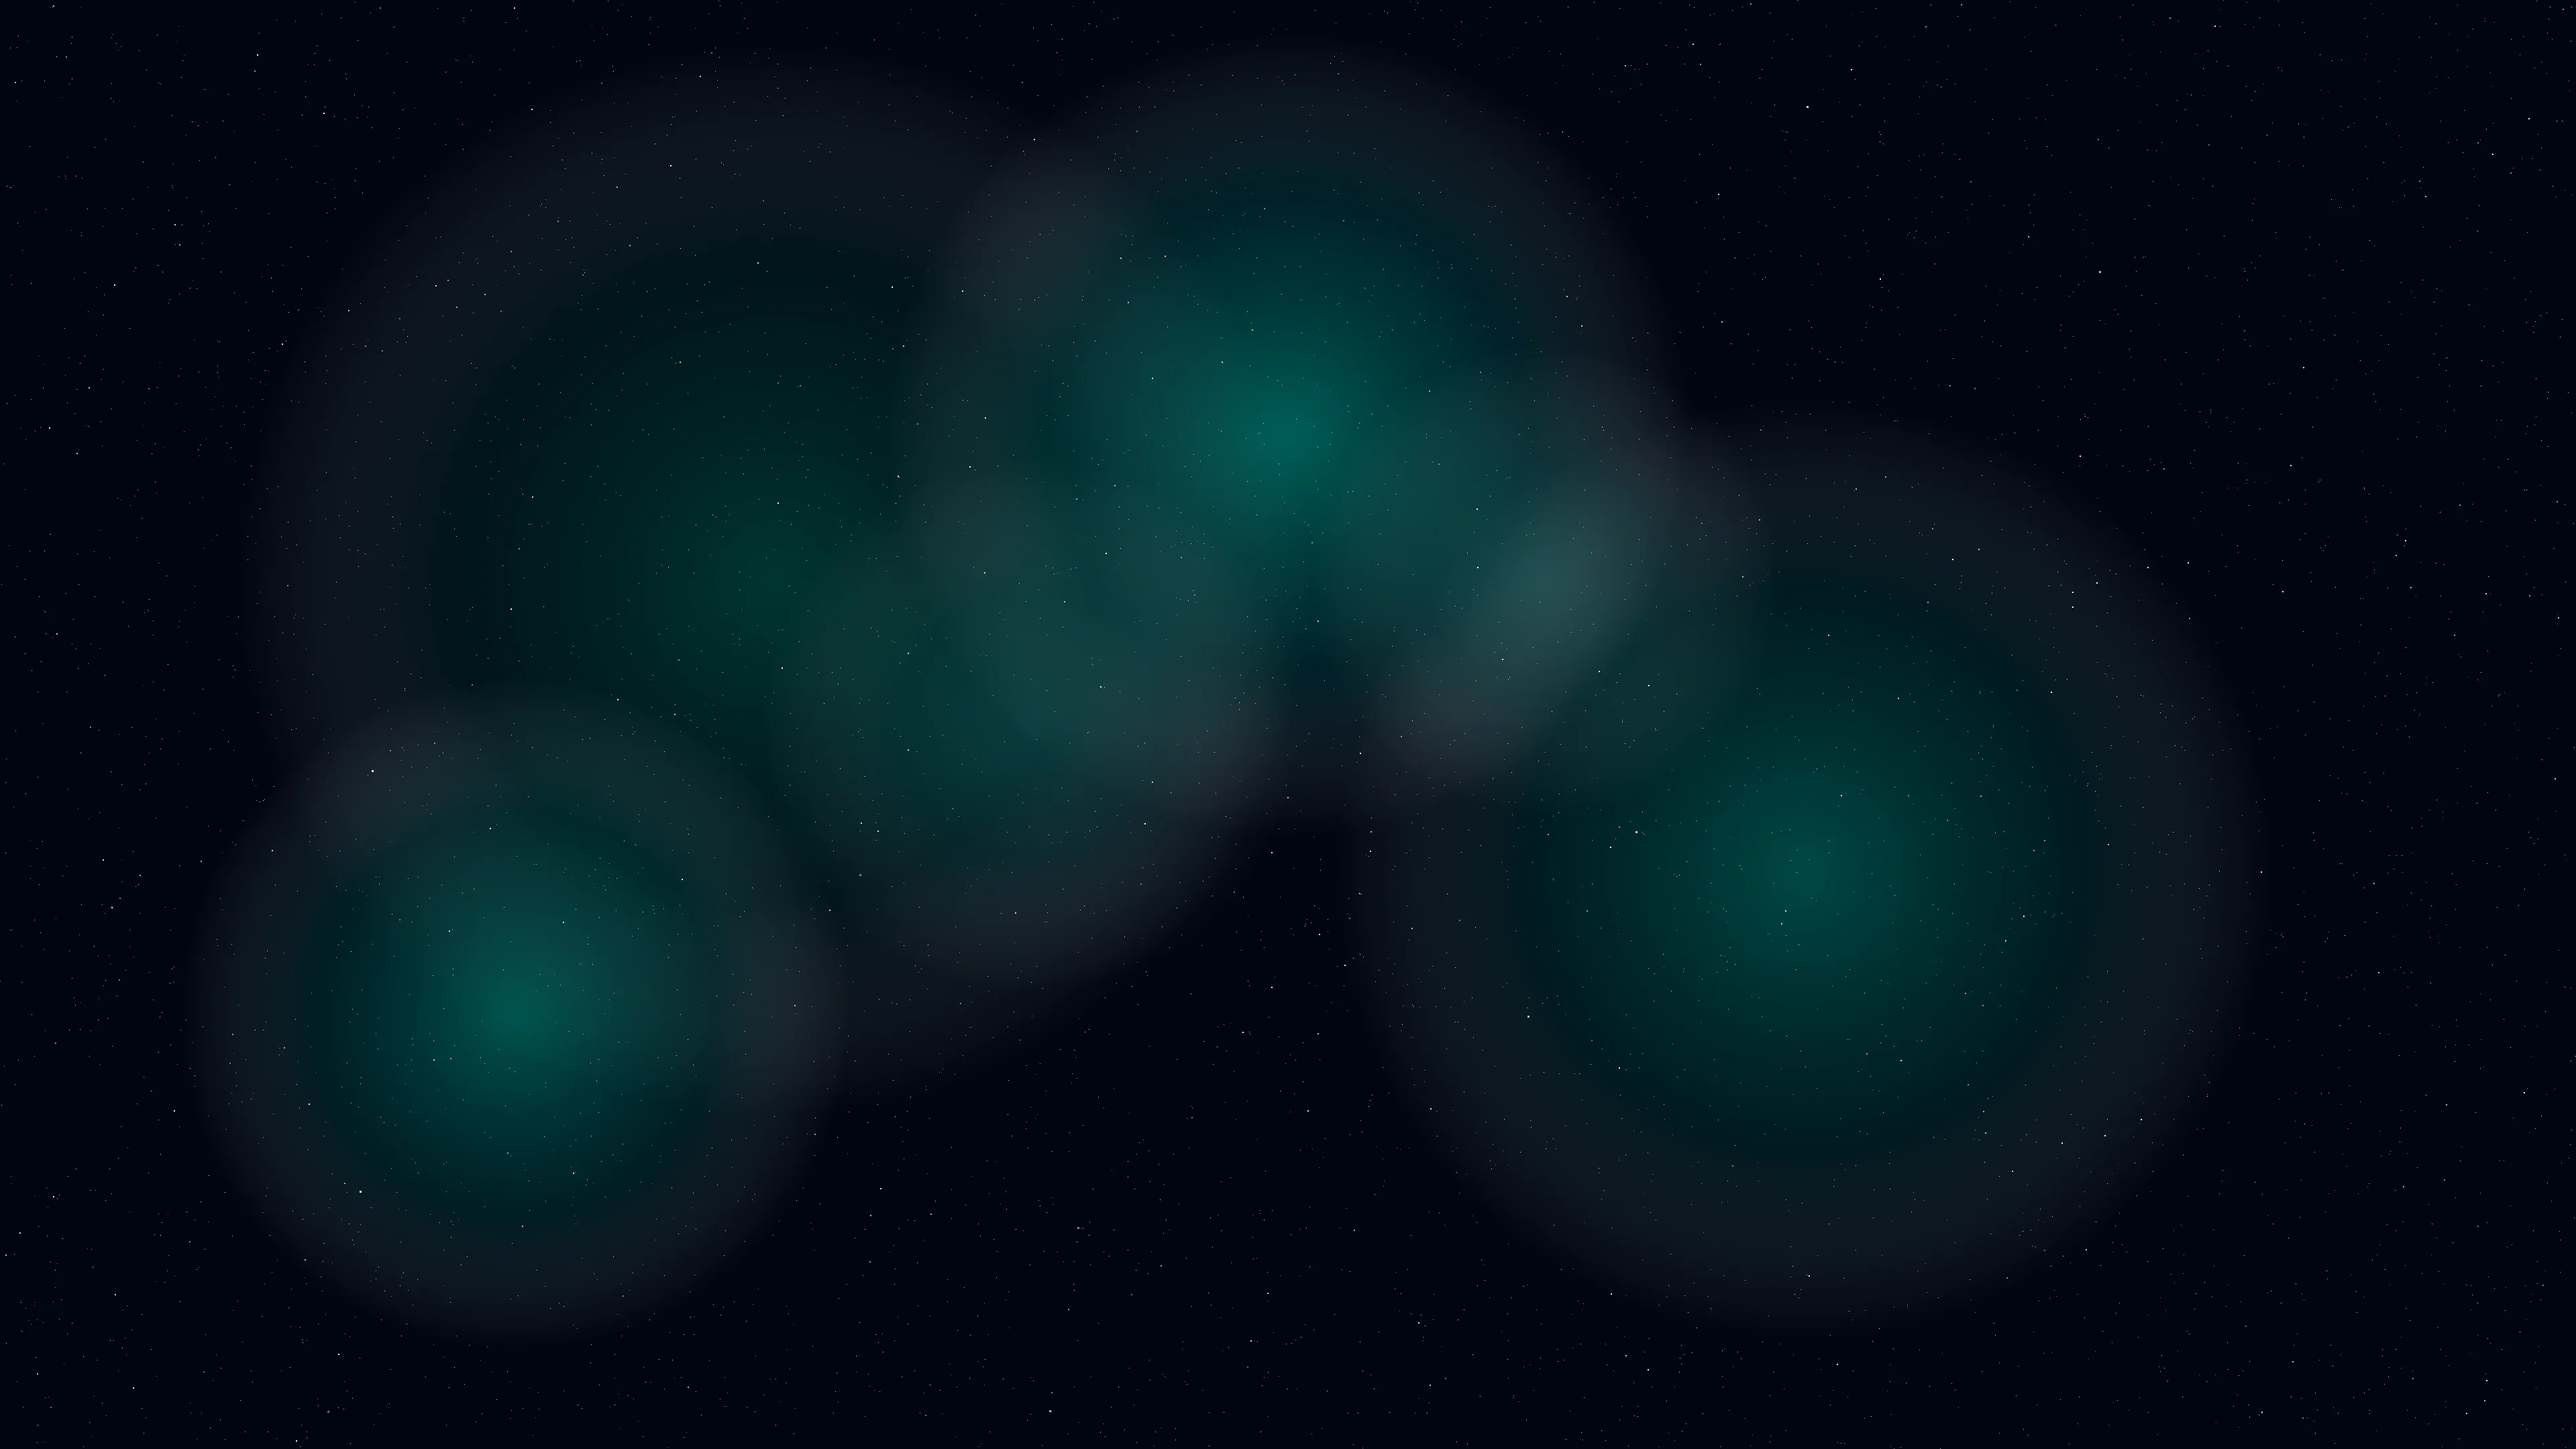
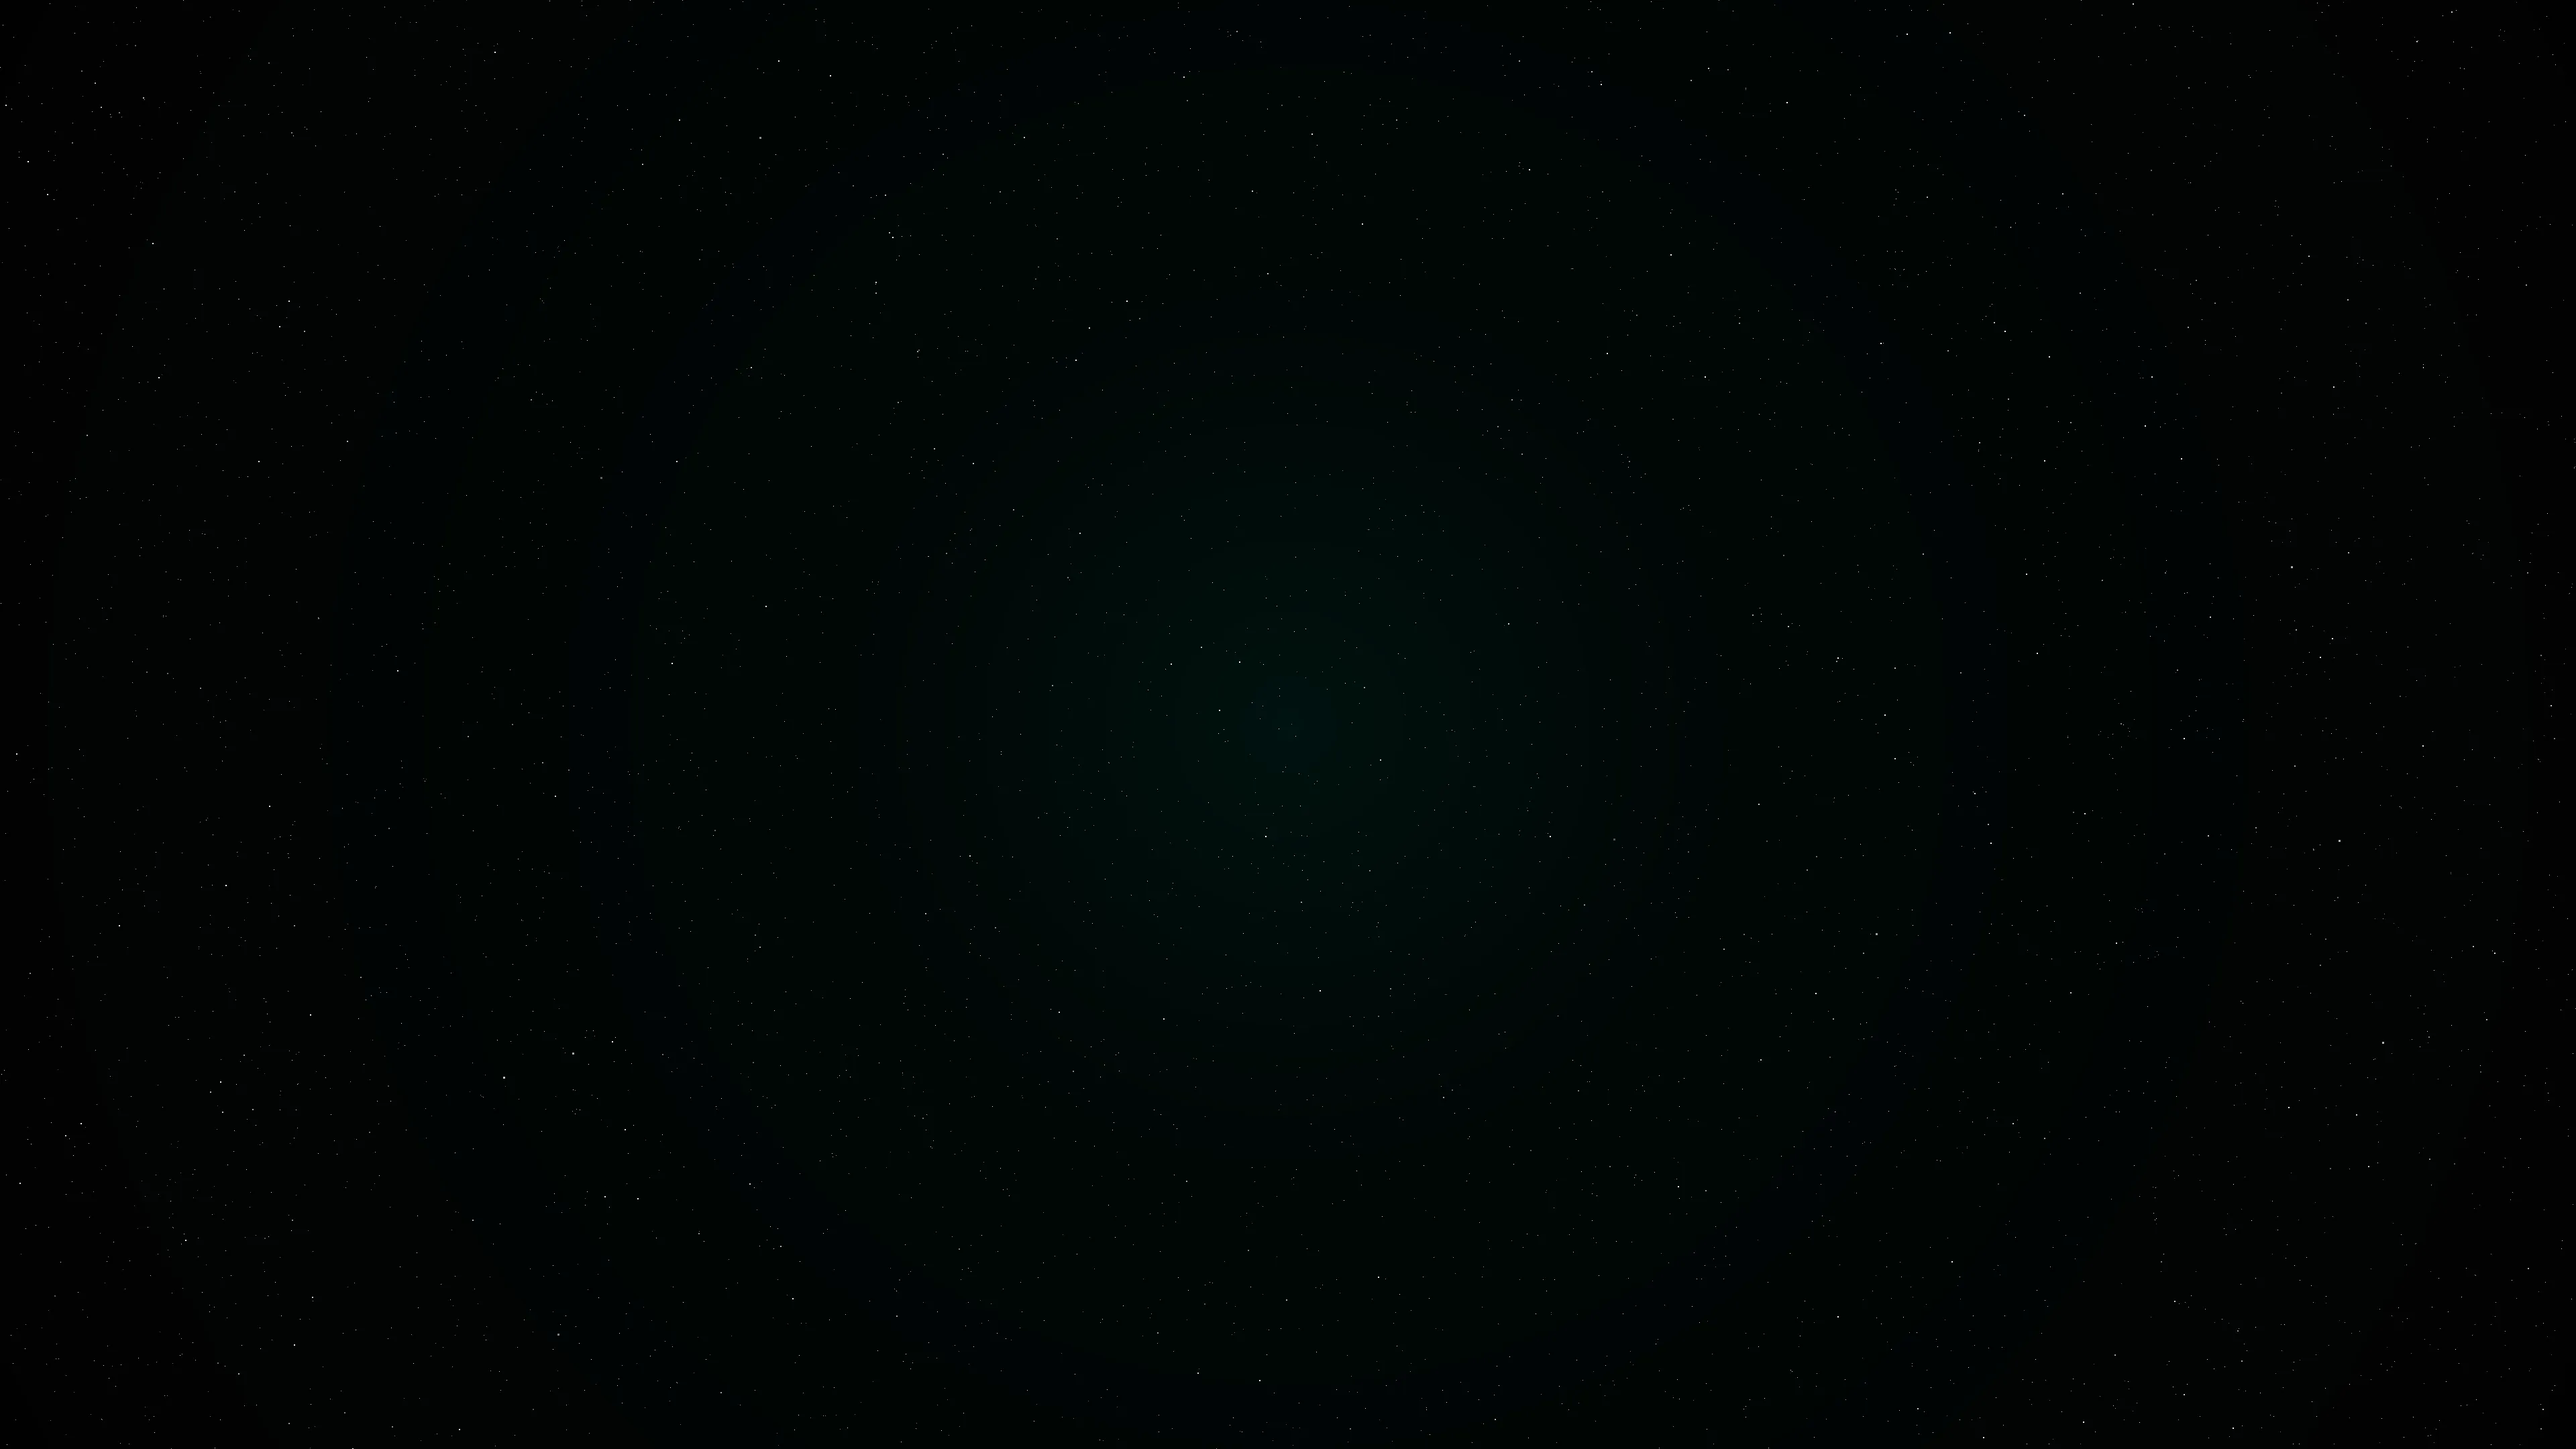
Create minimal night-sky landing page with clean design

diff --git a/src/utils/ParticleSystem.ts b/src/utils/ParticleSystem.ts
@@ -1,7 +1,8 @@
 /**
- * Particle system for shooting stars and comets
- * - White streaks every 3s, life 800ms, tail 80px, angle -15° to +15°
- * - Comet: 6px head + triangle tail, motion-blur 8px, 0.5% probability/sec
+ * Simplified particle system for realistic shooting stars
+ * - White 2px head with 80px tapered tail
+ * - Appears every 12 seconds
+ * - Life: 0.8s, angle: -15° to +15°
  */
 
 interface Particle {
@@ -11,7 +12,6 @@ interface Particle {
   vy: number;
   life: number;
   maxLife: number;
-  type: 'star' | 'comet';
   angle: number;
   tailLength: number;
 }
@@ -22,21 +22,12 @@ export class ParticleSystem {
   private particles: Particle[] = [];
   private lastSpawnTime: number = 0;
   private animationFrameId: number | null = null;
-  private isLowEndDevice: boolean = false;
-  private targetFPS: number = 60;
-  private lastFrameTime: number = 0;
-  private frameInterval: number;
-  private handleResize: () => void;
 
-  constructor(canvas: HTMLCanvasElement, isLowEndDevice: boolean = false) {
+  constructor(canvas: HTMLCanvasElement) {
     this.canvas = canvas;
     this.ctx = canvas.getContext('2d', { alpha: true });
-    this.isLowEndDevice = isLowEndDevice;
-    this.targetFPS = isLowEndDevice ? 30 : 60;
-    this.frameInterval = 1000 / this.targetFPS;
     this.resizeCanvas();
     
-    this.handleResize = this.handleResize.bind(this);
     window.addEventListener('resize', this.handleResize);
   }
 
@@ -52,7 +43,6 @@ export class ParticleSystem {
   start(): void {
     if (this.animationFrameId === null) {
       this.lastSpawnTime = Date.now();
-      this.lastFrameTime = Date.now();
       this.animate();
     }
   }
@@ -65,37 +55,22 @@ export class ParticleSystem {
   }
 
   private animate = (): void => {
-    const now = Date.now();
-    const deltaTime = now - this.lastFrameTime;
-
-    // Throttle frame rate for low-end devices
-    if (deltaTime < this.frameInterval) {
-      this.animationFrameId = requestAnimationFrame(this.animate);
-      return;
-    }
-
-    this.lastFrameTime = now - (deltaTime % this.frameInterval);
-
-    this.update(deltaTime / 1000);
+    this.update();
     this.render();
     this.animationFrameId = requestAnimationFrame(this.animate);
   };
 
-  private update(deltaTime: number): void {
+  private update(): void {
     const now = Date.now();
 
-    // Spawn shooting star every 3 seconds
-    if (now - this.lastSpawnTime > 3000) {
+    // Spawn shooting star every 12 seconds
+    if (now - this.lastSpawnTime >= 12000) {
       this.spawnShootingStar();
       this.lastSpawnTime = now;
     }
 
-    // 0.5% probability per second for comet
-    if (Math.random() < 0.005 * deltaTime * 1000) {
-      this.spawnComet();
-    }
-
-    // Update particles
+    // Update particles (16ms frame time approximation)
+    const deltaTime = 0.016;
     this.particles = this.particles.filter((particle) => {
       particle.life -= deltaTime;
       if (particle.life <= 0) return false;
@@ -114,12 +89,7 @@ export class ParticleSystem {
 
     this.particles.forEach((particle) => {
       const alpha = particle.life / particle.maxLife;
-      
-      if (particle.type === 'star') {
-        this.drawShootingStar(particle, alpha);
-      } else {
-        this.drawComet(particle, alpha);
-      }
+      this.drawShootingStar(particle, alpha);
     });
   }
 
@@ -129,8 +99,8 @@ export class ParticleSystem {
     const gradient = this.ctx.createLinearGradient(
       particle.x,
       particle.y,
-      particle.x - particle.vx * 0.1,
-      particle.y - particle.vy * 0.1
+      particle.x - Math.cos(particle.angle) * particle.tailLength,
+      particle.y - Math.sin(particle.angle) * particle.tailLength
     );
 
     gradient.addColorStop(0, `rgba(255, 255, 255, ${alpha})`);
@@ -149,58 +119,10 @@ export class ParticleSystem {
     this.ctx.stroke();
   }
 
-  private drawComet(particle: Particle, alpha: number): void {
-    if (!this.ctx) return;
-
-    // Apply motion blur effect
-    this.ctx.filter = 'blur(8px)';
-
-    // Draw head (6px circle)
-    this.ctx.fillStyle = `rgba(255, 255, 255, ${alpha})`;
-    this.ctx.beginPath();
-    this.ctx.arc(particle.x, particle.y, 3, 0, Math.PI * 2);
-    this.ctx.fill();
-
-    // Draw triangle tail
-    const gradient = this.ctx.createLinearGradient(
-      particle.x,
-      particle.y,
-      particle.x - Math.cos(particle.angle) * particle.tailLength,
-      particle.y - Math.sin(particle.angle) * particle.tailLength
-    );
-
-    gradient.addColorStop(0, `rgba(200, 220, 255, ${alpha * 0.8})`);
-    gradient.addColorStop(1, `rgba(100, 150, 200, 0)`);
-
-    this.ctx.fillStyle = gradient;
-    this.ctx.beginPath();
-    
-    const perpAngle = particle.angle + Math.PI / 2;
-    const width = 8;
-    
-    this.ctx.moveTo(
-      particle.x + Math.cos(perpAngle) * width,
-      particle.y + Math.sin(perpAngle) * width
-    );
-    this.ctx.lineTo(
-      particle.x - Math.cos(perpAngle) * width,
-      particle.y - Math.sin(perpAngle) * width
-    );
-    this.ctx.lineTo(
-      particle.x - Math.cos(particle.angle) * particle.tailLength,
-      particle.y - Math.sin(particle.angle) * particle.tailLength
-    );
-    this.ctx.closePath();
-    this.ctx.fill();
-
-    // Reset filter
-    this.ctx.filter = 'none';
-  }
-
   private spawnShootingStar(): void {
-    // Spawn from random edge with angle between -15° and +15° from horizontal
+    // Spawn from top of screen with angle between -15° and +15°
     const angle = (Math.random() * 30 - 15) * (Math.PI / 180);
-    const speed = 200 + Math.random() * 200; // 200-400 px/s
+    const speed = 300 + Math.random() * 200; // 300-500 px/s
     
     const x = Math.random() * this.canvas.width;
     const y = 0;
@@ -212,31 +134,8 @@ export class ParticleSystem {
       vy: Math.abs(Math.sin(angle) * speed), // Always downward
       life: 0.8, // 800ms
       maxLife: 0.8,
-      type: 'star',
       angle,
       tailLength: 80,
-    });
-  }
-
-  private spawnComet(): void {
-    // Comets move diagonally across the screen
-    const angle = (Math.random() * 30 - 15) * (Math.PI / 180) + Math.PI / 4;
-    const speed = 150 + Math.random() * 100;
-    
-    const startSide = Math.random() > 0.5;
-    const x = startSide ? 0 : this.canvas.width;
-    const y = Math.random() * this.canvas.height * 0.5;
-
-    this.particles.push({
-      x,
-      y,
-      vx: Math.cos(angle) * speed * (startSide ? 1 : -1),
-      vy: Math.abs(Math.sin(angle) * speed),
-      life: 1.5, // Comets live longer
-      maxLife: 1.5,
-      type: 'comet',
-      angle,
-      tailLength: 120,
     });
   }
 

diff --git a/src/pages/MinimalNightSkyLanding.tsx b/src/pages/MinimalNightSkyLanding.tsx
@@ -1,0 +1,140 @@
+/**
+ * Minimal Night-Sky Landing Page
+ * - Clean 4K astro-photo background (fixed, cover, brightness 0.7)
+ * - 40px radial blur mask
+ * - Realistic shooting star every 12s
+ * - Two centered buttons: "Demo" & "Login / Register"
+ * - No parallax, no glass cards, no cursor effects
+ */
+
+import { useEffect, useRef } from 'react';
+import { useNavigate } from 'react-router-dom';
+import { Button } from '@/components/ui/button';
+import { ParticleSystem } from '@/utils/ParticleSystem';
+
+const MinimalNightSkyLanding = () => {
+  const navigate = useNavigate();
+  const canvasRef = useRef<HTMLCanvasElement>(null);
+  const particleSystemRef = useRef<ParticleSystem | null>(null);
+
+  useEffect(() => {
+    // Initialize particle system for shooting stars
+    if (canvasRef.current && !particleSystemRef.current) {
+      particleSystemRef.current = new ParticleSystem(canvasRef.current);
+      particleSystemRef.current.start();
+    }
+
+    // Cleanup on unmount
+    return () => {
+      if (particleSystemRef.current) {
+        particleSystemRef.current.destroy();
+        particleSystemRef.current = null;
+      }
+    };
+  }, []);
+
+  return (
+    <div className="relative w-full h-screen overflow-hidden">
+      {/* Fixed 4K background with brightness filter and blur mask */}
+      <div
+        className="fixed inset-0 bg-cover bg-center bg-fixed"
+        style={{
+          backgroundImage: 'url(/images/space-bg.webp)',
+          filter: 'brightness(0.7)',
+          zIndex: -2,
+        }}
+      />
+
+      {/* 40px radial blur mask */}
+      <div
+        className="fixed inset-0"
+        style={{
+          background: 'radial-gradient(ellipse at center, transparent 40%, #000000 100%)',
+          filter: 'blur(40px)',
+          pointerEvents: 'none',
+          zIndex: -1,
+        }}
+      />
+
+      {/* Particle canvas for shooting stars */}
+      <canvas
+        ref={canvasRef}
+        className="fixed inset-0 pointer-events-none"
+        style={{ zIndex: 1 }}
+      />
+
+      {/* Centered content */}
+      <div className="relative z-10 flex items-center justify-center h-full">
+        <div className="flex flex-col items-center gap-8 px-4">
+          {/* Title */}
+          <h1
+            className="text-6xl md:text-8xl font-bold tracking-tight"
+            style={{
+              color: '#ffffff',
+              textShadow: '0 0 20px rgba(0, 121, 107, 0.5)',
+            }}
+          >
+            StudentSathi
+          </h1>
+
+          {/* Subtitle */}
+          <p
+            className="text-xl md:text-2xl text-center max-w-2xl"
+            style={{ color: '#e0e0e0' }}
+          >
+            Navigate Your Academic Journey
+          </p>
+
+          {/* Buttons */}
+          <div className="flex gap-6 mt-4">
+            <Button
+              onClick={() => navigate('/demo')}
+              className="px-8 py-6 text-lg font-semibold transition-all duration-300"
+              style={{
+                backgroundColor: '#00796B',
+                color: '#ffffff',
+                borderRadius: '16px',
+                border: 'none',
+                boxShadow: '0 4px 20px rgba(0, 121, 107, 0.3)',
+              }}
+              onMouseEnter={(e) => {
+                e.currentTarget.style.boxShadow = '0 6px 30px rgba(0, 121, 107, 0.6)';
+                e.currentTarget.style.transform = 'translateY(-2px)';
+              }}
+              onMouseLeave={(e) => {
+                e.currentTarget.style.boxShadow = '0 4px 20px rgba(0, 121, 107, 0.3)';
+                e.currentTarget.style.transform = 'translateY(0)';
+              }}
+            >
+              Demo
+            </Button>
+
+            <Button
+              onClick={() => navigate('/login')}
+              className="px-8 py-6 text-lg font-semibold transition-all duration-300"
+              style={{
+                backgroundColor: '#00796B',
+                color: '#ffffff',
+                borderRadius: '16px',
+                border: 'none',
+                boxShadow: '0 4px 20px rgba(0, 121, 107, 0.3)',
+              }}
+              onMouseEnter={(e) => {
+                e.currentTarget.style.boxShadow = '0 6px 30px rgba(0, 121, 107, 0.6)';
+                e.currentTarget.style.transform = 'translateY(-2px)';
+              }}
+              onMouseLeave={(e) => {
+                e.currentTarget.style.boxShadow = '0 4px 20px rgba(0, 121, 107, 0.3)';
+                e.currentTarget.style.transform = 'translateY(0)';
+              }}
+            >
+              Login / Register
+            </Button>
+          </div>
+        </div>
+      </div>
+    </div>
+  );
+};
+
+export default MinimalNightSkyLanding;

diff --git a/src/App.tsx b/src/App.tsx
@@ -10,7 +10,7 @@ import { ProtectedRoute } from "./components/ProtectedRoute";
 import { SpaceLayout } from "./components/SpaceLayout";
 
 // Lazy load pages for better initial load performance
-const NightSkyLanding = lazy(() => import("./pages/NightSkyLanding"));
+const MinimalNightSkyLanding = lazy(() => import("./pages/MinimalNightSkyLanding"));
 const Index = lazy(() => import("./pages/Index"));
 const Login = lazy(() => import("./pages/Login"));
 const Register = lazy(() => import("./pages/Register"));
@@ -43,7 +43,7 @@ const App = () => (
         <AuthProvider>
           <Suspense fallback={<LoadingFallback />}>
             <Routes>
-              <Route path="/" element={<NightSkyLanding />} />
+              <Route path="/" element={<MinimalNightSkyLanding />} />
               <Route path="/demo" element={<Demo />} />
               <Route path="/login" element={
                 <SpaceLayout>
